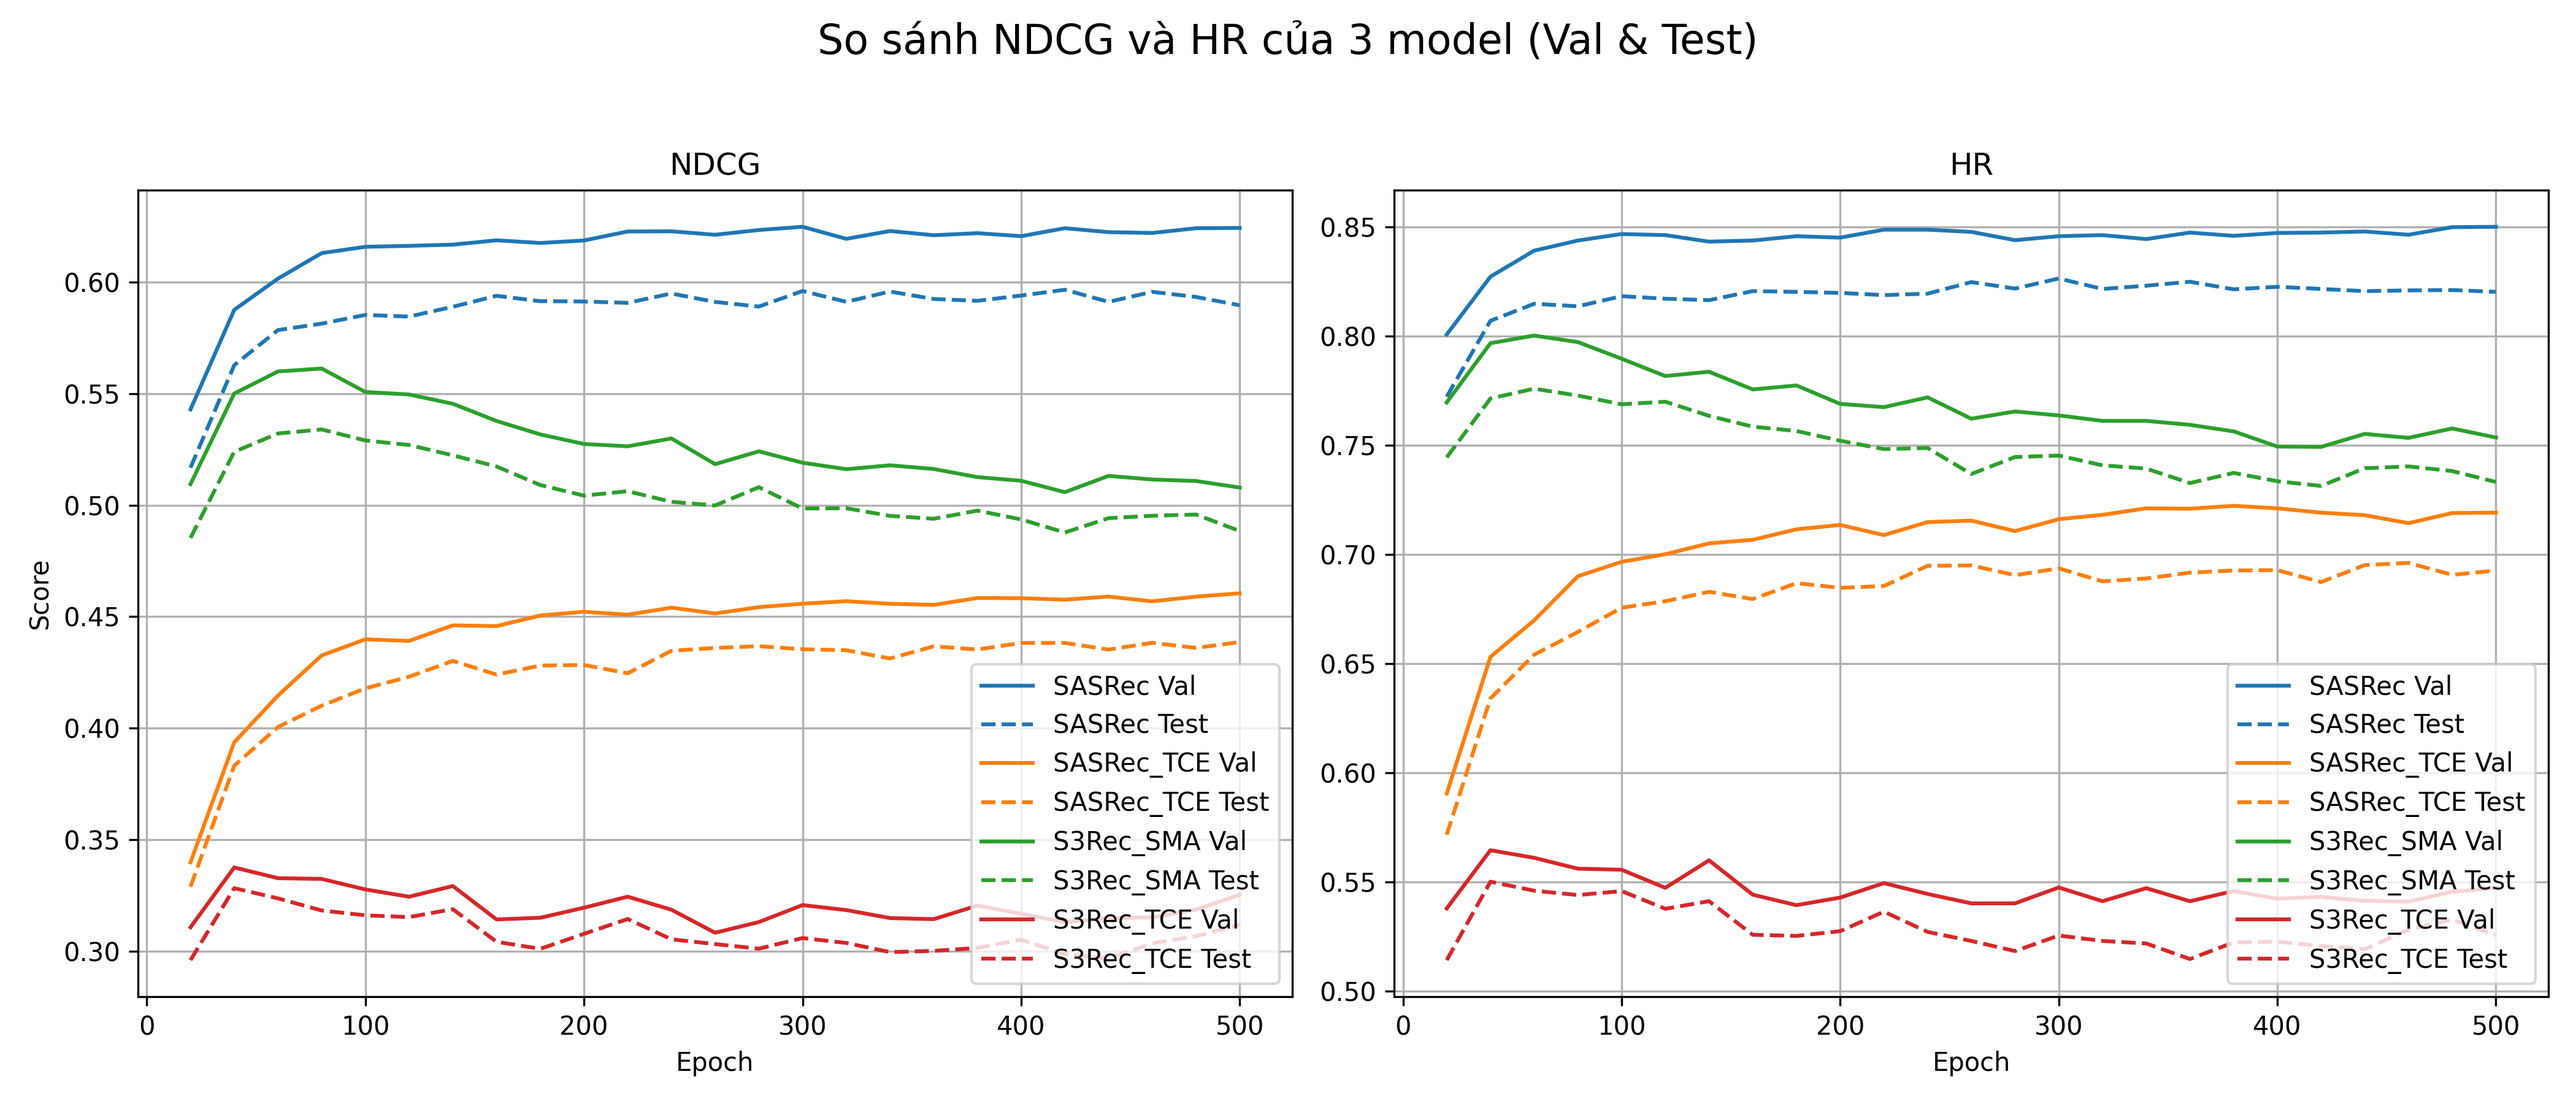
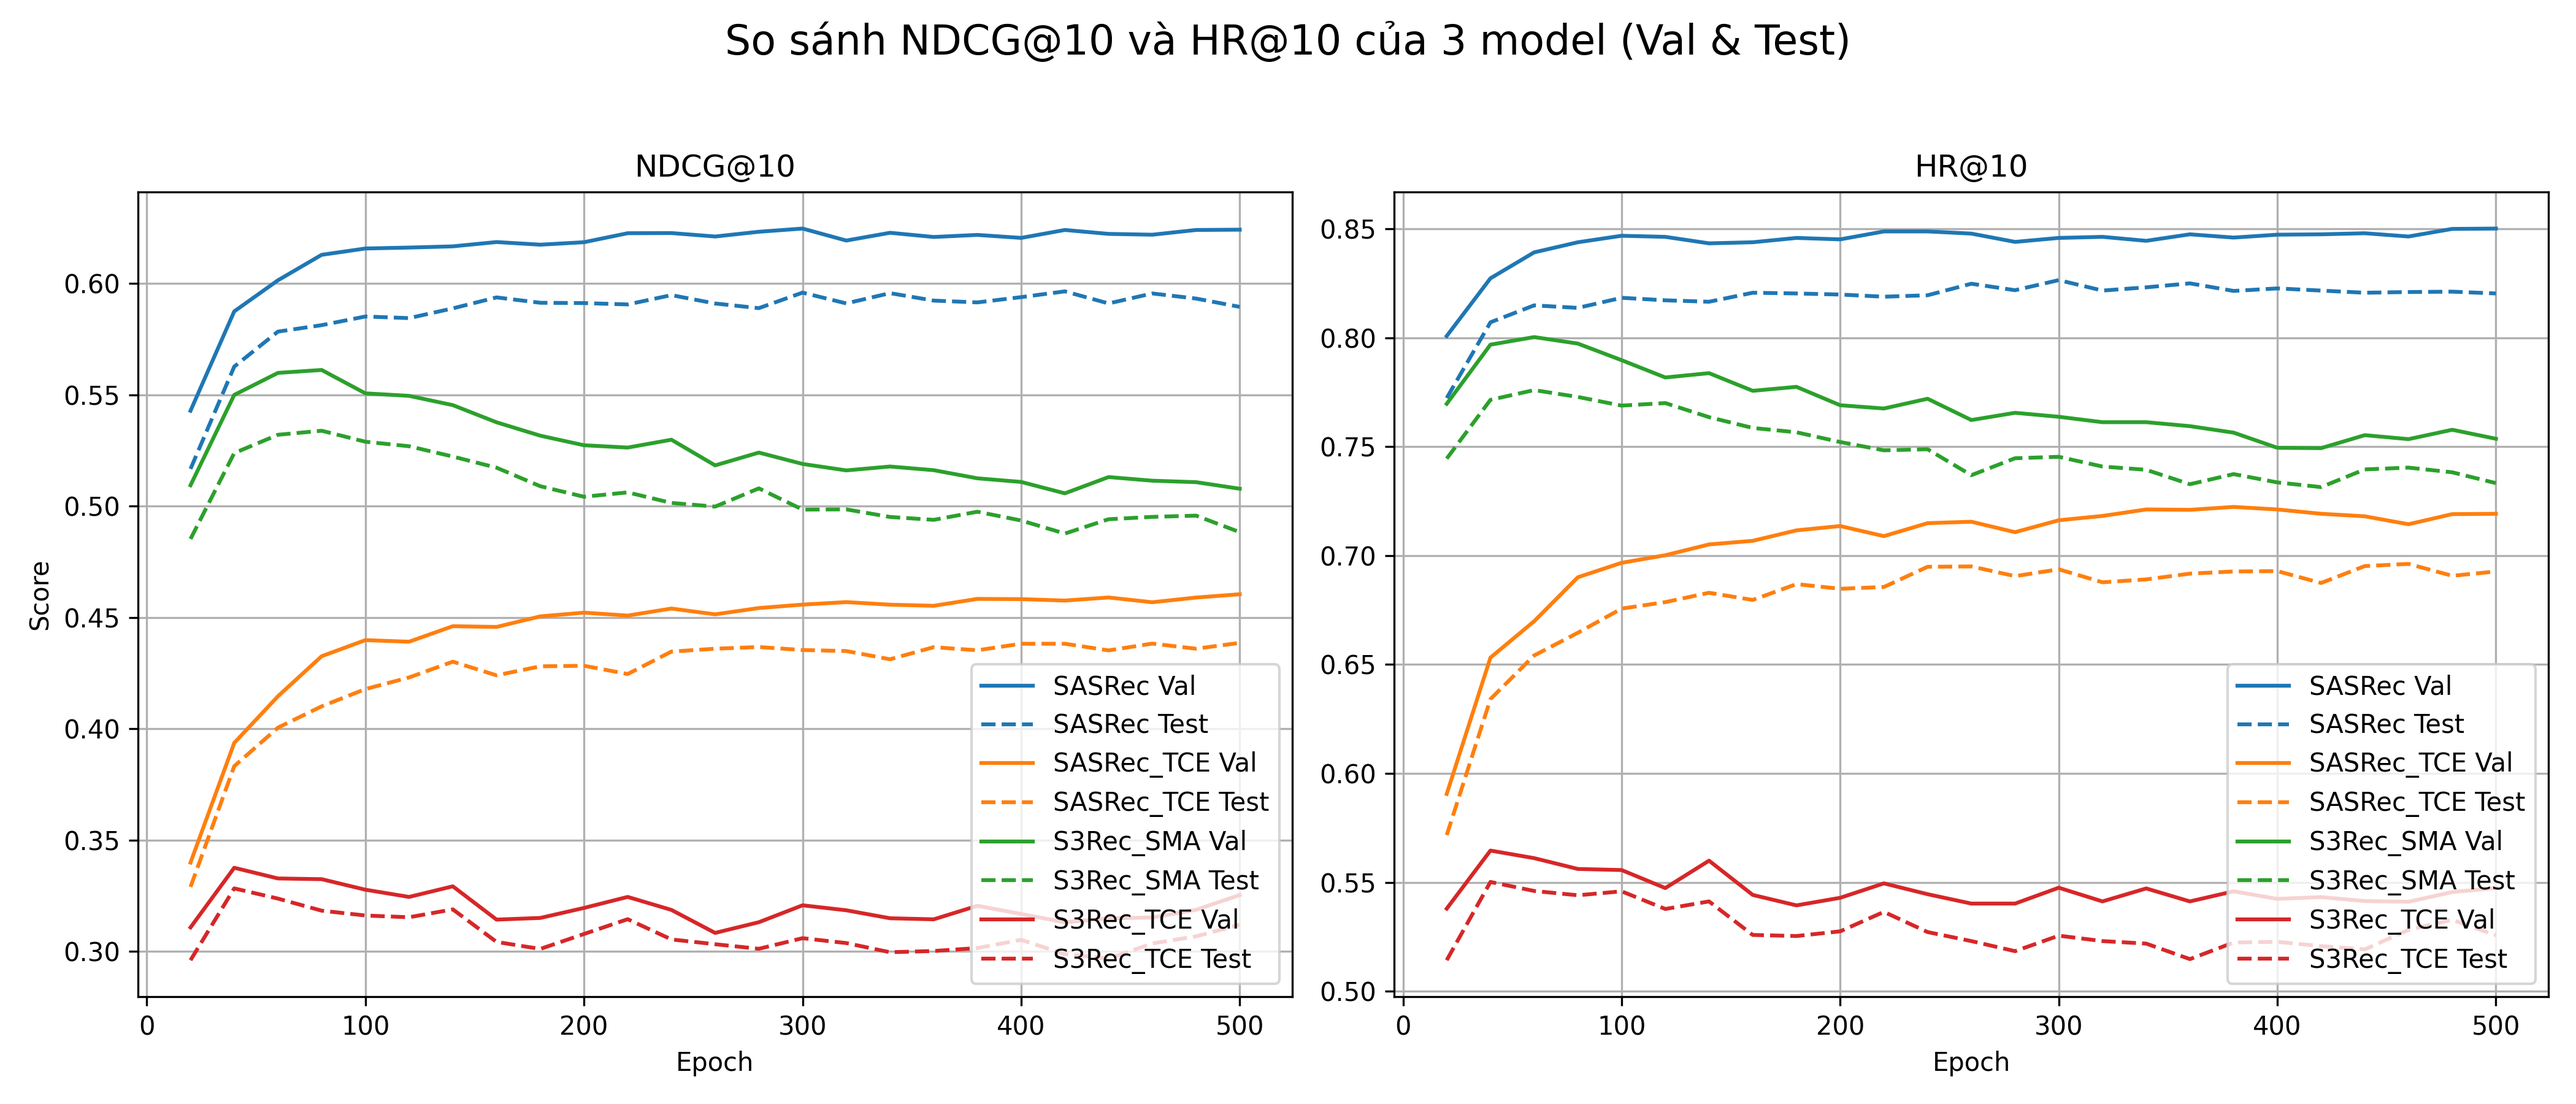
fix plot

diff --git a/plot.py b/plot.py
@@ -46,7 +46,7 @@ for i, (epochs, val_ndcg, val_hr, test_ndcg, test_hr) in enumerate(data):
     axes[0].plot(
         epochs, test_ndcg, label=f'{model_name} Test', color=colors[i], linestyle='--'
     )
-axes[0].set_title('NDCG')
+axes[0].set_title('NDCG@10')
 axes[0].set_xlabel('Epoch')
 axes[0].set_ylabel('Score')
 axes[0].grid(True)
@@ -61,12 +61,12 @@ for i, (epochs, val_ndcg, val_hr, test_ndcg, test_hr) in enumerate(data):
     axes[1].plot(
         epochs, test_hr, label=f'{model_name} Test', color=colors[i], linestyle='--'
     )
-axes[1].set_title('HR')
+axes[1].set_title('HR@10')
 axes[1].set_xlabel('Epoch')
 axes[1].grid(True)
 axes[1].legend()
 
-fig.suptitle('So sánh NDCG và HR của 3 model (Val & Test)', fontsize=16)
+fig.suptitle('So sánh NDCG@10 và HR@10 của 3 model (Val & Test)', fontsize=16)
 plt.tight_layout(rect=[0, 0, 1, 0.95])
 
 # Lưu ảnh
